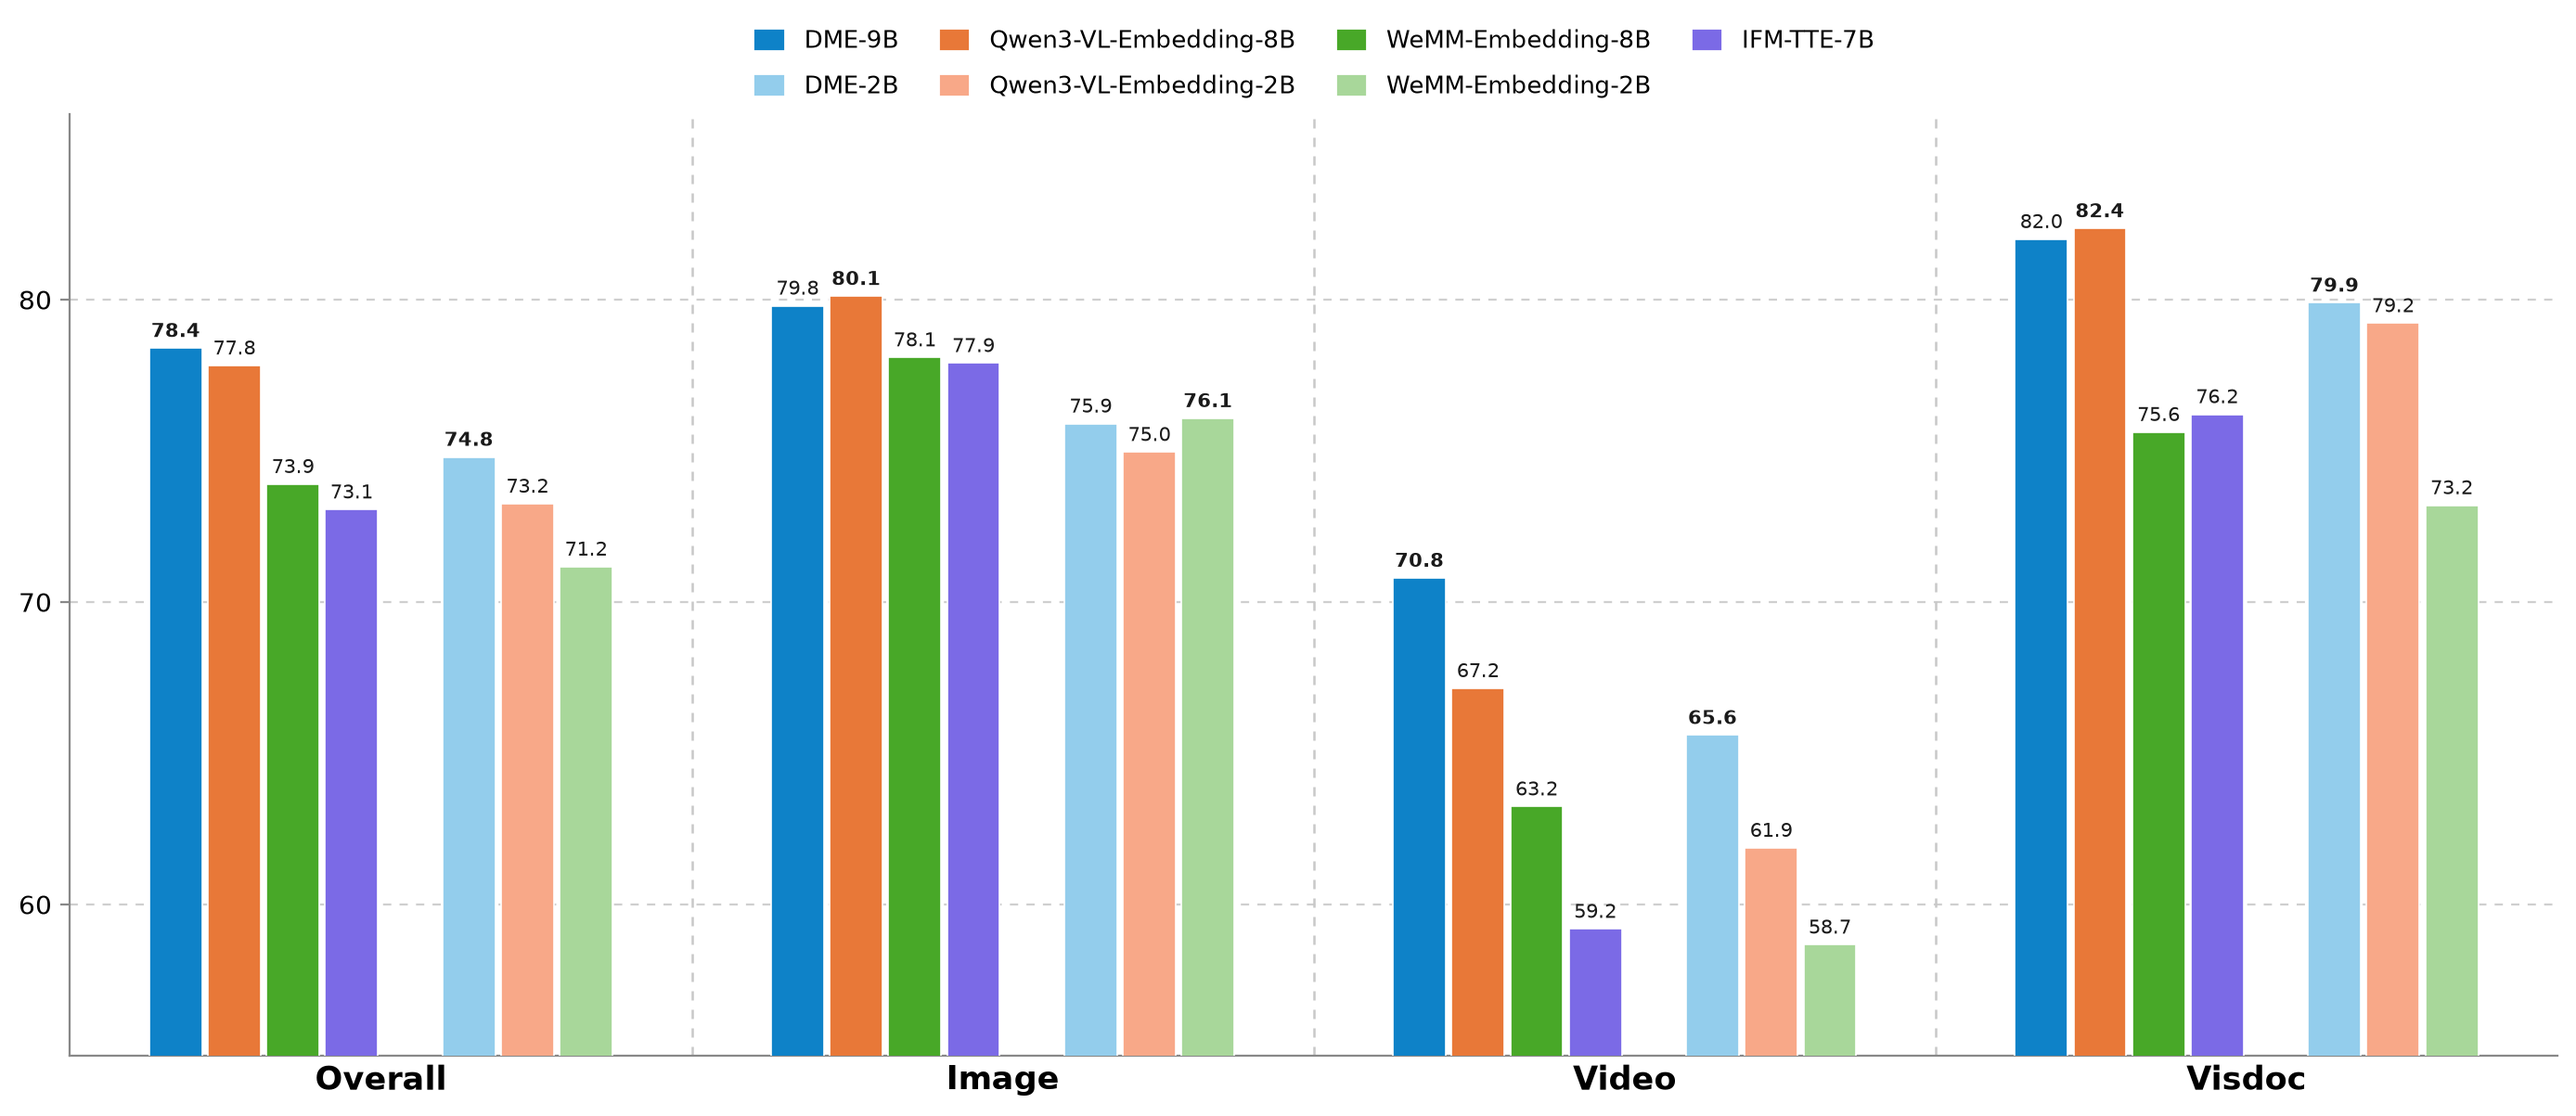
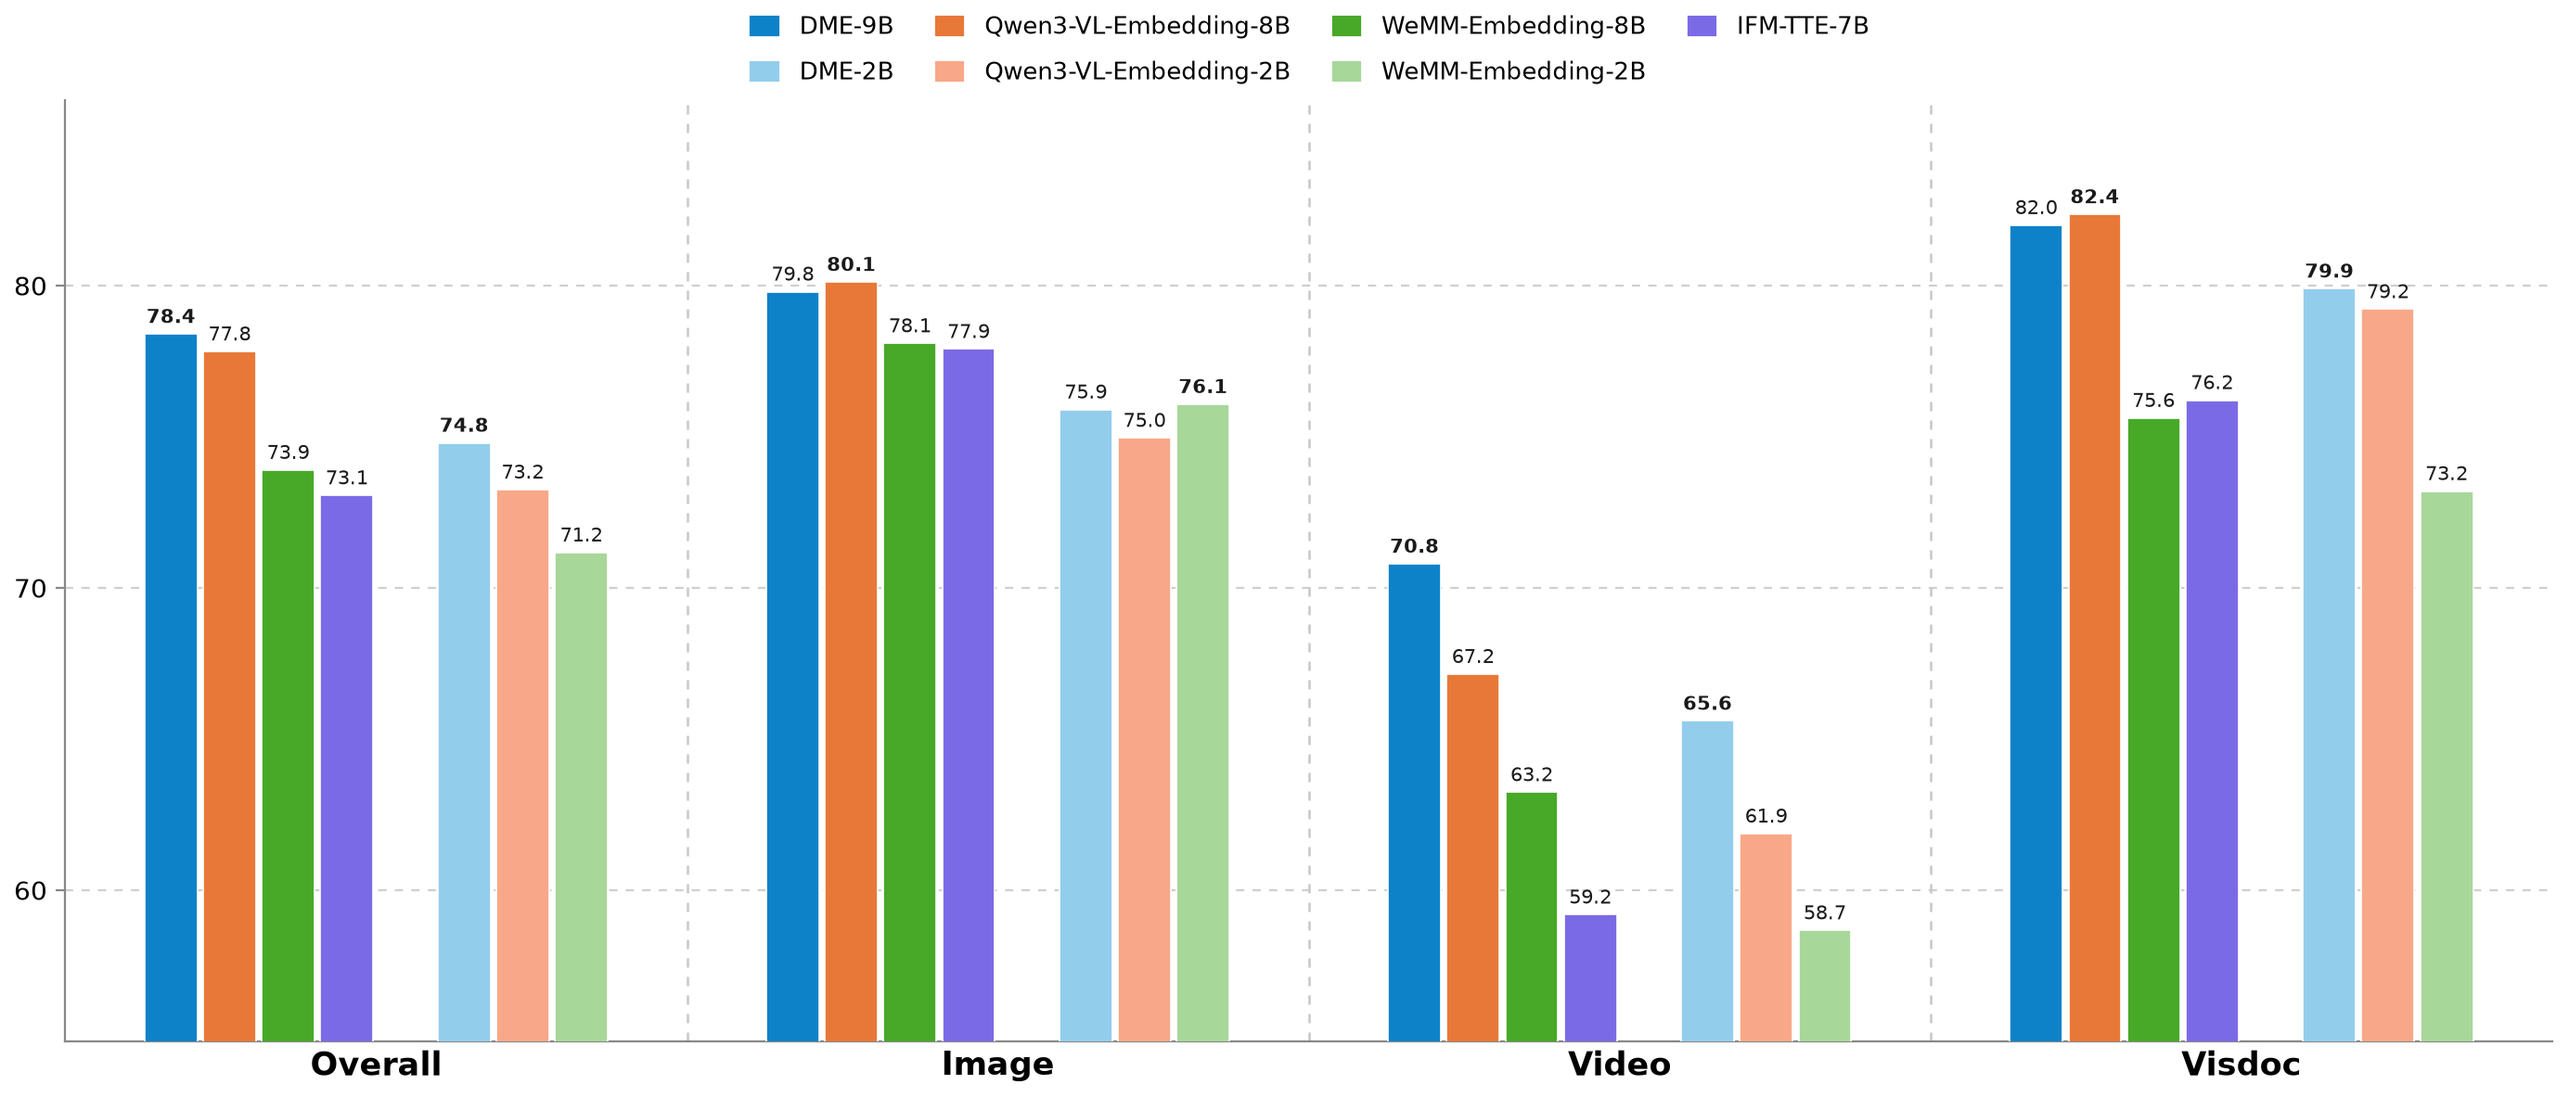
fix DME figure crops and inventory

diff --git a/02_model_systems/multimodal_understanding/evidence/figure-inventory.md b/02_model_systems/multimodal_understanding/evidence/figure-inventory.md
@@ -2,13 +2,13 @@
 
 | Paper | 对象 | 来源页 | 完整 caption | 正式资产 | bbox/分辨率 | 用途与 QA |
 |---|---|---:|---|---|---|---|
-| douyin-multimodal-embedding | Figure 1 | 2 | Performance Comparison. Overall and per-domain (Image, Video, VisDoc) results on MMEB-v2. | `../assets/papers/douyin-multimodal-embedding/fig-performance.png` | 1240x560，整图 | 主结果；原分辨率检查通过 |
-| douyin-multimodal-embedding | Figure 2 | 3 | Comparison with prior works. Contrastive, CoT-based and DME embedding pipelines. | `../assets/papers/douyin-multimodal-embedding/fig-compare.png` | 1240x290，整图 | 动机对比；通过 |
-| douyin-multimodal-embedding | Figure 3 | 7 | Overview of the DME two-stage training pipeline. | `../assets/papers/douyin-multimodal-embedding/fig-pipeline.png` | 1240x380，整图 | 算法总览；通过 |
-| douyin-multimodal-embedding | Figure 4 | 8 | Stage 2: Semantic Sufficiency Learning. | `../assets/papers/douyin-multimodal-embedding/fig-pipeline-stage2.png` | 1240x500，整图 | Stage 2 机制；通过 |
-| douyin-multimodal-embedding | Figure 5 | 16 | Effect of batch size on contrastive training. | `../assets/papers/douyin-multimodal-embedding/fig-batch_size_scaling.png` | 1240x650，整图 | 训练参数分析；通过 |
-| douyin-multimodal-embedding | Figure 6 | 28 | Reconstruction visualization on image and visual-document inputs. | `../assets/papers/douyin-multimodal-embedding/fig-generate_1.png` | 1240x700，整图 | 表示完整性；通过 |
-| douyin-multimodal-embedding | Figure 7 | 29 | Reconstruction visualization on video inputs. | `../assets/papers/douyin-multimodal-embedding/fig-generate_2.png` | 1240x700，整图 | 表示完整性；通过 |
-| douyin-multimodal-embedding | Figure 8 | 30 | Reconstruction visualization on video moment-retrieval inputs. | `../assets/papers/douyin-multimodal-embedding/fig-generate_3.png` | 1240x700，整图 | 时刻检索示例；通过 |
+| douyin-multimodal-embedding | Figure 1 | 2 | Performance Comparison. Overall and per-domain (Image, Video, VisDoc) results on MMEB-v2. | `../assets/papers/douyin-multimodal-embedding/fig-performance.png` | 2769x1183，trim bbox=(21,31,2769,1183)，16px 安全边距 | 主结果；逐图检查通过 |
+| douyin-multimodal-embedding | Figure 2 | 3 | Comparison with prior works. Contrastive, CoT-based and DME embedding pipelines. | `../assets/papers/douyin-multimodal-embedding/fig-compare.png` | 1843x512，trim bbox=(262,346,1843,512)，16px 安全边距 | 动机对比；逐图检查通过 |
+| douyin-multimodal-embedding | Figure 3 | 7 | Overview of the DME two-stage training pipeline. | `../assets/papers/douyin-multimodal-embedding/fig-pipeline.png` | 1349x313，trim bbox=(512,460,1349,313)，16px 安全边距 | 算法总览；逐图检查通过 |
+| douyin-multimodal-embedding | Figure 4 | 8 | Stage 2: Semantic Sufficiency Learning. | `../assets/papers/douyin-multimodal-embedding/fig-pipeline-stage2.png` | 1679x777，trim bbox=(352,277,1679,777)，16px 安全边距 | Stage 2 机制；逐图检查通过 |
+| douyin-multimodal-embedding | Figure 5 | 16 | Effect of batch size on contrastive training. | `../assets/papers/douyin-multimodal-embedding/fig-batch_size_scaling.png` | 2133x1299，trim bbox=(0,105,2133,1299)，16px 安全边距 | 训练参数分析；逐图检查通过 |
+| douyin-multimodal-embedding | Figure 6 | 28 | Reconstruction visualization on image and visual-document inputs. | `../assets/papers/douyin-multimodal-embedding/fig-generate_1.png` | 1156x1365，trim bbox=(151,8,1156,1365)，16px 安全边距 | 表示完整性；逐图检查通过 |
+| douyin-multimodal-embedding | Figure 7 | 29 | Reconstruction visualization on video inputs. | `../assets/papers/douyin-multimodal-embedding/fig-generate_2.png` | 1153x1357，trim bbox=(123,13,1153,1357)，16px 安全边距 | 表示完整性；逐图检查通过 |
+| douyin-multimodal-embedding | Figure 8 | 30 | Reconstruction visualization on video moment-retrieval inputs. | `../assets/papers/douyin-multimodal-embedding/fig-generate_3.png` | 1153x1358，trim bbox=(119,13,1153,1358)，16px 安全边距 | 时刻检索示例；逐图检查通过 |
 
-图像来自 arXiv:2608.02148v3 源码中的原始图，已转为 PNG；本清单记录整图 bbox，未使用 PDF 页面截图。
+图像来自 arXiv:2608.02148v3 源码中的原始图，已转为 PNG，并按非白色内容紧裁剪后保留 16px 安全边距；bbox 以原始 PNG 左上角为坐标原点。源码图本身不含论文 caption，完整 caption 在本清单与 Paper 正文中保留。

diff --git a/02_model_systems/multimodal_understanding/papers/douyin-multimodal-embedding.md b/02_model_systems/multimodal_understanding/papers/douyin-multimodal-embedding.md
@@ -18,8 +18,8 @@ tags:
 
 ## 修订信息
 
-- 当前版本：1.0；修订 ID：`dme-v1`
-- 记录：`initial`（2026-09-02，基于 arXiv:2608.02148v3，未发现既有 canonical 文档）
+- 当前版本：1.0.0；修订 ID：`rev-dme-v1`
+- 记录：`initial`（2026-09-02，基于 arXiv:2608.02148v3，首次有效冻结；此前过程 manifest 不作为 predecessor）
 
 ## 基本信息与证据边界
 
